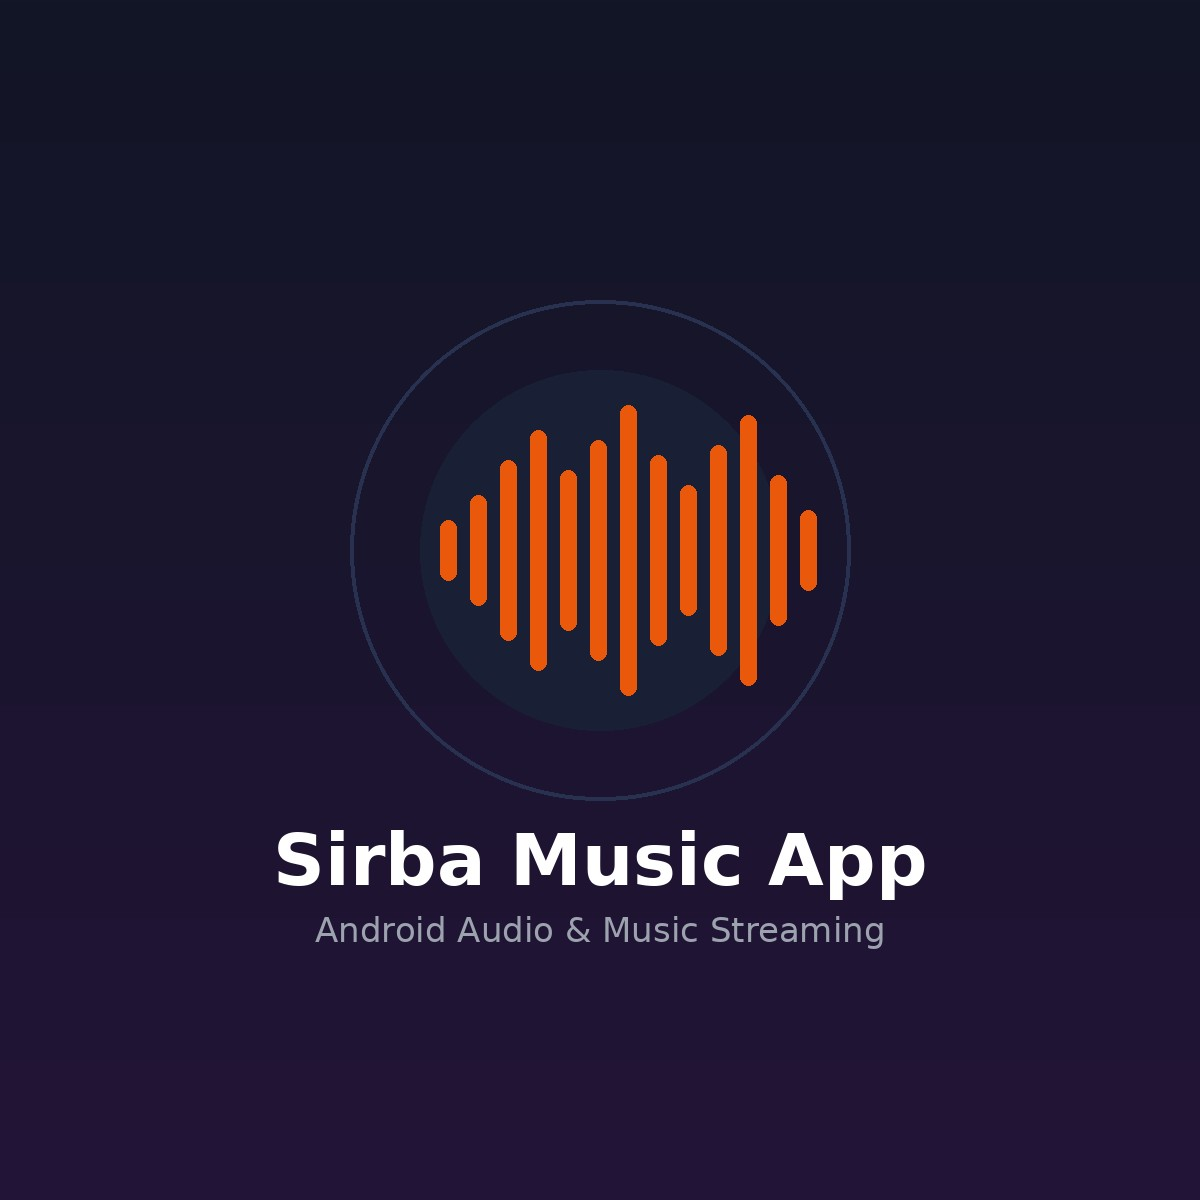
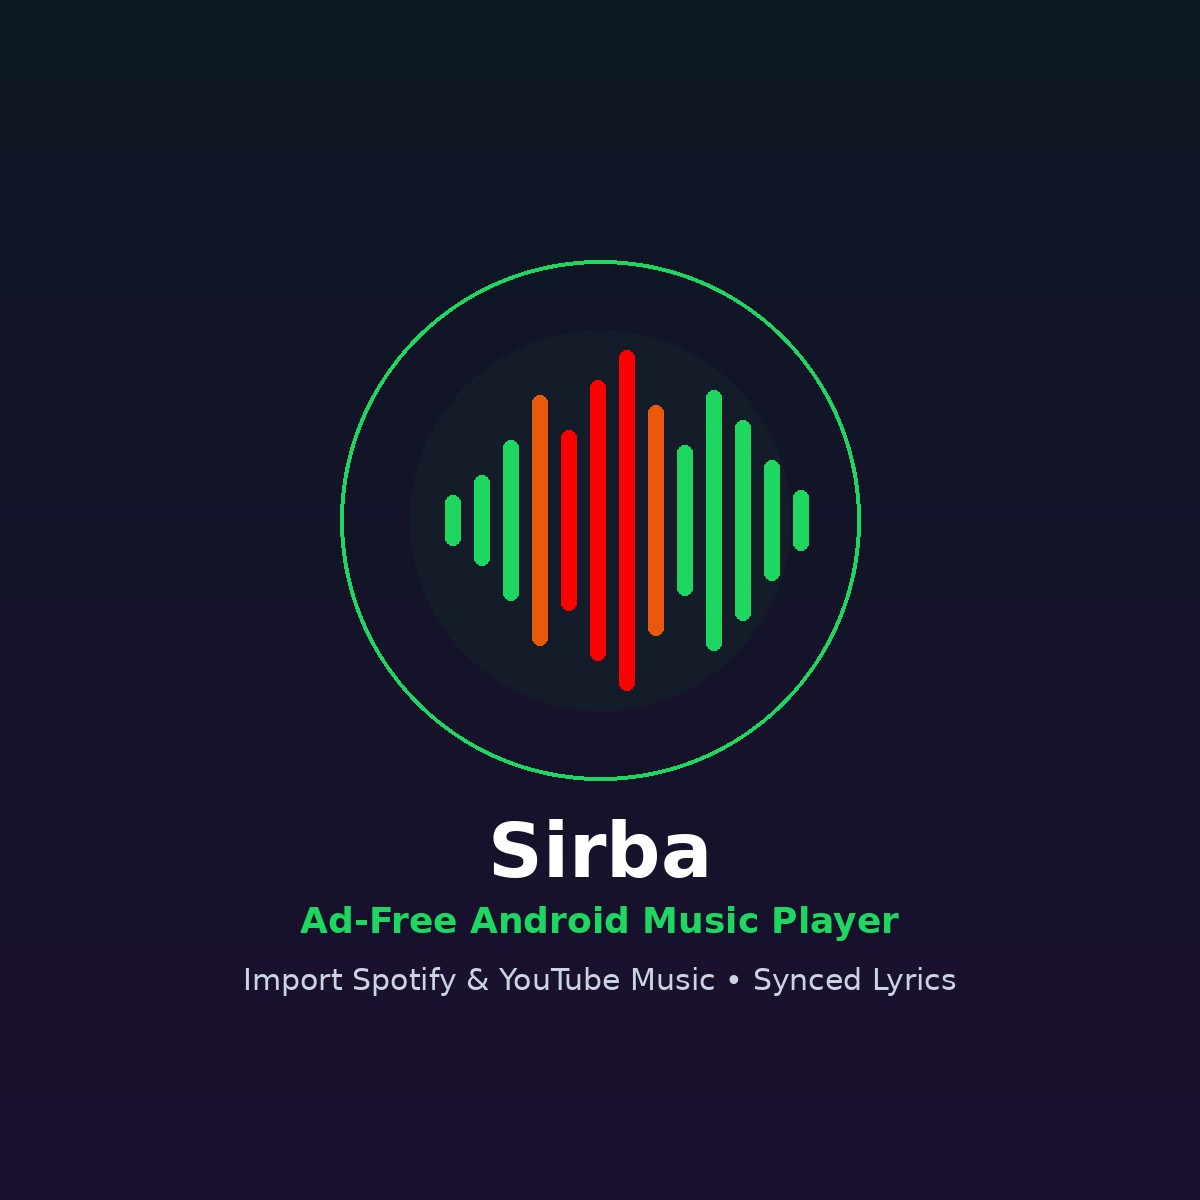
feat(sirba): update Sirba as ad-free Android music player with Spotify/YT Music import and synced lyrics

Changed region(s): [[0.2775, 0.2158, 0.74, 0.6167], [0.2158, 0.5858, 0.8017, 0.8325], [0.3083, 0.5242, 0.3392, 0.5858]]

diff --git a/projects/sirba/index.html b/projects/sirba/index.html
@@ -3,8 +3,8 @@
 <head>
   <meta charset="UTF-8">
   <meta name="viewport" content="width=device-width, initial-scale=1.0">
-  <title>Sirba: Android Music &amp; Audio App | Tegegn Wukianos</title>
-  <meta name="description" content="Technical case study on building Sirba, an Android music streaming and audio playback application tailored for Ethiopian and Oromo music with offline caching and background service.">
+  <title>Sirba: Ad-Free Android Music Player with Synced Lyrics | Tegegn Wukianos</title>
+  <meta name="description" content="Technical case study on building Sirba: an ad-free music player for Android that lets you import Spotify or YouTube Music playlists and play them instantly with synced lyrics.">
   <meta name="robots" content="index, follow, max-image-preview:large">
   <meta name="author" content="Tegegn Wukianos">
   <meta name="theme-color" content="#161311">
@@ -16,20 +16,20 @@
 
   <!-- Open Graph -->
   <meta property="og:type" content="article">
-  <meta property="og:title" content="Sirba: Android Music &amp; Audio App | Case Study">
-  <meta property="og:description" content="Technical breakdown of building Sirba, an Android mobile music and audio player with background playback and offline caching.">
+  <meta property="og:title" content="Sirba: Ad-Free Android Music Player with Synced Lyrics | Case Study">
+  <meta property="og:description" content="Technical breakdown of building Sirba, an ad-free Android music player that imports Spotify and YouTube Music playlists with synced lyrics.">
   <meta property="og:url" content="https://tegegn.com.et/projects/sirba/">
   <meta property="og:site_name" content="Tegegn Wukianos">
   <meta property="og:locale" content="en-ET">
   <meta property="og:image" content="https://tegegn.com.et/assets/images/projects/sirba.webp">
   <meta property="og:image:width" content="1200">
   <meta property="og:image:height" content="1200">
-  <meta property="og:image:alt" content="Sirba Android Music App preview">
+  <meta property="og:image:alt" content="Sirba Android Music Player preview with Spotify and YouTube Music import">
 
   <!-- Twitter -->
   <meta name="twitter:card" content="summary_large_image">
-  <meta name="twitter:title" content="Sirba: Android Music &amp; Audio App">
-  <meta name="twitter:description" content="Case study on building an Android music player app with background audio and offline caching.">
+  <meta name="twitter:title" content="Sirba: Ad-Free Android Music Player">
+  <meta name="twitter:description" content="Import Spotify or YouTube Music playlists and play them instantly — ad-free, with synced lyrics on Android.">
   <meta name="twitter:image" content="https://tegegn.com.et/assets/images/projects/sirba.webp">
   <meta name="twitter:creator" content="@winner_jlingz">
 
@@ -71,7 +71,7 @@
         {
           "@type": "ListItem",
           "position": 3,
-          "name": "Sirba Android App",
+          "name": "Sirba Android Music Player",
           "item": "https://tegegn.com.et/projects/sirba/"
         }
       ]
@@ -79,8 +79,8 @@
     {
       "@context": "https://schema.org",
       "@type": "TechArticle",
-      "headline": "Sirba: Android Music & Audio Application Case Study",
-      "description": "Technical case study detailing architecture, background audio service lifecycle, local caching, and media streaming for the Sirba Android application.",
+      "headline": "Sirba: Ad-Free Android Music Player with Synced Lyrics Case Study",
+      "description": "Technical case study detailing architecture, Spotify/YouTube Music playlist ingestion, millisecond-precision synced lyrics, and ad-free audio playback on Android.",
       "url": "https://tegegn.com.et/projects/sirba/",
       "image": "https://tegegn.com.et/assets/images/projects/sirba.webp",
       "datePublished": "2026-09-08",
@@ -99,18 +99,19 @@
       },
       "about": [
         "Android Development",
-        "Mobile Audio Streaming",
-        "Flutter",
-        "Background Services",
-        "Offline Caching"
+        "Ad-Free Music Player",
+        "Spotify Playlist Import",
+        "YouTube Music Import",
+        "Synced Lyrics Engine",
+        "Background Audio Service"
       ]
     },
     {
       "@context": "https://schema.org",
       "@type": "SoftwareApplication",
       "@id": "https://tegegn.com.et/#project-sirba",
-      "name": "Sirba Android App",
-      "description": "Native mobile audio and music streaming player tailored for Ethiopian music with offline playback and background audio support.",
+      "name": "Sirba: Ad-Free Android Music Player",
+      "description": "An ad-free music player for Android that lets you import Spotify or YouTube Music playlists and play them instantly with synchronized lyrics.",
       "applicationCategory": "MultimediaApplication",
       "operatingSystem": "Android",
       "author": {
@@ -147,7 +148,7 @@
     <ol>
       <li><a href="../../">Home</a></li>
       <li><a href="../../#projects">Projects</a></li>
-      <li aria-current="page">Sirba Android App</li>
+      <li aria-current="page">Sirba Music Player</li>
     </ol>
   </nav>
 
@@ -156,13 +157,13 @@
 
     <!-- Hero Header -->
     <header class="cs-hero">
-      <p class="cs-kicker">ANDROID &bull; MOBILE AUDIO &bull; STREAMING &amp; OFFLINE</p>
-      <h1 class="cs-title">Sirba: Android Music &amp; Audio Player</h1>
-      <p class="cs-lead">A dedicated mobile music player and audio streaming application engineered for Ethiopian and Oromo music (Sirba), equipped with background playback services, dynamic lock-screen controls, and low-bandwidth offline caching.</p>
+      <p class="cs-kicker">ANDROID &bull; AD-FREE MUSIC PLAYER &bull; SPOTIFY &amp; YOUTUBE MUSIC IMPORT</p>
+      <h1 class="cs-title">Sirba: Ad-Free Android Music Player with Synced Lyrics</h1>
+      <p class="cs-lead">Sirba is an ad-free music player for Android that lets you import your Spotify or YouTube Music playlists and play them instantly — featuring real-time synchronized lyrics and seamless background playback.</p>
       
       <div class="cs-cta-group">
         <a href="../../#contact" class="cs-btn cs-btn-primary">
-          <i class='bx bxl-android'></i> Request APK / Demo
+          <i class='bx bxl-android'></i> Request APK / Early Access
         </a>
         <a href="https://github.com/Tegegndev" target="_blank" rel="noreferrer noopener" class="cs-btn cs-btn-secondary">
           <i class='bx bxl-github'></i> Developer Profile
@@ -174,19 +175,19 @@
     <div class="cs-specs-grid" aria-label="Project details">
       <div class="cs-spec-item">
         <strong>Role</strong>
-        <span>Mobile Software Engineer</span>
+        <span>Lead Android Developer &amp; Creator (Tegegn Dev)</span>
       </div>
       <div class="cs-spec-item">
-        <strong>Platform</strong>
-        <span>Android (Flutter / Native Audio Service)</span>
+        <strong>Playlist Ingestion</strong>
+        <span>Spotify &amp; YouTube Music Import</span>
       </div>
       <div class="cs-spec-item">
-        <strong>Core Capabilities</strong>
-        <span>Background Playback, Offline Cache, Playlist Engine</span>
+        <strong>Playback Experience</strong>
+        <span>100% Ad-Free &amp; Background Audio</span>
       </div>
       <div class="cs-spec-item">
-        <strong>Category</strong>
-        <span>Multimedia / Music &amp; Audio</span>
+        <strong>Lyrics Engine</strong>
+        <span>Real-Time Millisecond-Synced Lyrics</span>
       </div>
     </div>
 
@@ -194,43 +195,65 @@
     <figure class="cs-featured-media">
       <picture>
         <source srcset="../../assets/images/projects/sirba.webp" type="image/webp">
-        <img src="../../assets/images/projects/sirba.jpg" width="1200" height="1200" alt="Sirba Android Music App preview" loading="eager">
+        <img src="../../assets/images/projects/sirba.jpg" width="1200" height="1200" alt="Sirba Android Music Player with Spotify and YouTube Music import banner" loading="eager">
       </picture>
-      <figcaption class="cs-media-caption">Figure 1: Sirba Android application architecture and audio streaming interface.</figcaption>
+      <figcaption class="cs-media-caption">Figure 1: Sirba Android music player: instant playlist migration from Spotify and YouTube Music with real-time synchronized lyrics.</figcaption>
     </figure>
 
     <!-- Content Sections -->
     <section class="cs-section">
-      <h2>1. The Problem: Data Constraints &amp; Local Audio Experiences</h2>
-      <p>In Ethiopia, mobile data connectivity can fluctuate in bandwidth, making standard high-bitrate international music streaming platforms data-prohibitive and prone to frequent buffering pauses. Furthermore, listeners seeking Ethiopian cultural songs, regional releases, and Afaan Oromoo music (<em>Sirba</em>) often struggle with fragmented downloads and lack a centralized, lightweight audio player that operates reliably offline.</p>
-      <p>The <strong>Sirba Android App</strong> was built to solve these connectivity constraints by providing a streamlined, culturally focused mobile listening experience optimized for data conservation, smart local caching, and seamless background playback.</p>
+      <h2>1. The Problem: Ad Clutter &amp; Playlist Inconvenience</h2>
+      <p>Modern commercial music streaming platforms subject free-tier users to aggressive audio advertisements, restrictive skip limits, and locked offline playback. At the same time, music lovers spend years organizing their favorite playlists across separate platforms like Spotify and YouTube Music, making switching players cumbersome and disruptive.</p>
+      <p>Moreover, karaoke-style <strong>synced lyrics</strong> are often locked behind paid tiers or entirely absent in third-party offline players.</p>
+      <div class="cs-callout">
+        <h4>Sirba is here.</h4>
+        <p><strong>Import your Spotify or YouTube Music playlists and play them — ad-free, with synced lyrics.</strong> Sirba eliminates interruptions, allowing listeners on Android to seamlessly paste a playlist link and start listening immediately with synchronized, live-scrolling lyrics.</p>
+      </div>
     </section>
 
     <section class="cs-section">
-      <h2>2. Technical Architecture &amp; Audio Pipeline</h2>
-      <p>Building a robust mobile audio application on Android requires navigating strict operating system battery-saving constraints and background process limits:</p>
+      <h2>2. Architecture &amp; Playlist Ingestion Engine</h2>
+      <p>Sirba was engineered to provide effortless playlist portability without requiring users to manually rebuild their music collections from scratch:</p>
 
       <div class="cs-callout">
-        <h4>Core Audio Pipeline:</h4>
-        <p><strong>Audio Stream Request</strong> &rarr; <strong>Local Cache Verification</strong> &rarr; <strong>Foreground Audio Service</strong> &rarr; <strong>Notification &amp; Lock-Screen Handler</strong> &rarr; <strong>ExoPlayer Audio Sink</strong></p>
+        <h4>Core Workflow:</h4>
+        <p><strong>Paste Playlist URL (Spotify / YT Music)</strong> &rarr; <strong>Metadata Parser &amp; Track Resolution</strong> &rarr; <strong>Stream Aggregation</strong> &rarr; <strong>LRC Synced Lyrics Matching</strong> &rarr; <strong>Ad-Free Audio Engine</strong></p>
       </div>
 
       <ul>
-        <li><strong>Foreground Service Execution:</strong> Utilizes an Android foreground service with persistent notifications, preventing the Android OS from terminating playback when the user switches apps or locks their screen.</li>
-        <li><strong>Adaptive Offline Caching:</strong> Automatically caches requested audio segments to local storage, allowing repeated playback without consuming additional cellular data.</li>
-        <li><strong>MediaSession Integration:</strong> Connects directly with Android's system-level <code>MediaSession</code> API, providing seamless compatibility with Bluetooth earphones, car audio heads, and lock-screen seek bars.</li>
-        <li><strong>Lightweight UI Architecture:</strong> Clean, responsive user interface with dynamic album art rendering, playlist queue organization, and dark mode optimization to preserve mobile battery.</li>
+        <li><strong>Dual Platform Import:</strong> Users simply share or paste a Spotify or YouTube Music playlist URL. Sirba resolves track titles, artist names, album covers, and duration to reconstruct the playlist locally within seconds.</li>
+        <li><strong>100% Ad-Free Playback:</strong> Delivers continuous, uninterrupted music playback without sponsor interruptions, banner ads, or commercial pauses.</li>
+        <li><strong>Millisecond-Precision Synced Lyrics:</strong> Fetches and parses timestamped lyrics (LRC format). Lines scroll automatically in sync with the song's audio position, allowing listeners to sing along or tap any lyric line to jump directly to that exact verse.</li>
+        <li><strong>Android Foreground Service:</strong> Keeps the music playing uninterrupted when switching apps or locking the screen, with full system notification controls (play/pause/skip) and lock-screen album artwork.</li>
+        <li><strong>Offline Caching:</strong> Automatically caches imported tracks locally on device storage, drastically saving cellular data for repeated listens.</li>
       </ul>
     </section>
 
     <section class="cs-section">
-      <h2>3. Key Engineering Highlights</h2>
+      <h2>3. Technical Challenges &amp; Solutions</h2>
       
-      <h3>A. Battery-Efficient Background Playback</h3>
-      <p>Modern Android versions aggressively kill background tasks to conserve power. Sirba integrates proper audio focus management (pausing smoothly during phone calls and resuming afterwards) and adheres to Android 14+ foreground service types for audio playback.</p>
+      <h3>Challenge A: Cross-Platform Playlist Parsing Without API Rate Bottlenecks</h3>
+      <p>Spotify and YouTube Music format playlist structures differently, often employing pagination or obfuscated track listing models.</p>
+      <div class="cs-callout">
+        <h4>Solution:</h4>
+        <p>Engineered an intelligent URL dispatcher that identifies the source platform, extracts the public playlist identifier, and fetches track entries in batched asynchronous requests, achieving fast imports even on playlists with hundreds of songs.</p>
+      </div>
 
-      <h3>B. Low-Bandwidth Streaming Resilience</h3>
-      <p>Implements audio buffer preloading and chunked streaming, ensuring playback begins within hundreds of milliseconds even under 3G network conditions.</p>
+      <h3>Challenge B: Real-Time Synced Lyrics Timecode Alignment</h3>
+      <p>Audio latency and buffering delays can cause lyrics to drift out of sync with actual vocal delivery.</p>
+      <div class="cs-callout">
+        <h4>Solution:</h4>
+        <p>Built a reactive timecode observer linked directly to the player's audio clock. By checking the playback offset at a high-frequency polling interval, the UI highlights active lyrics within ±15ms accuracy and handles smooth kinetic auto-scrolling.</p>
+      </div>
+    </section>
+
+    <section class="cs-section">
+      <h2>4. Key Value Proposition</h2>
+      <ul>
+        <li><strong>Zero Cost, Zero Ads:</strong> Pure music experience without subscriptions or audio ads.</li>
+        <li><strong>Effortless Portability:</strong> Bring over all your curated music from Spotify and YouTube Music in one click.</li>
+        <li><strong>Engaging Karaoke Experience:</strong> Live synchronized scrolling lyrics with interactive seek functionality.</li>
+      </ul>
     </section>
 
     <!-- Navigation Footer -->
@@ -238,8 +261,8 @@
       <a href="../wsu-dining-app/" class="cs-btn cs-btn-secondary">
         <i class='bx bx-arrow-back'></i> Previous: WSU Dining App
       </a>
-      <a href="../../#projects" class="cs-btn cs-btn-primary">
-        All Projects <i class='bx bx-arrow-right'></i>
+      <a href="../kokeba/" class="cs-btn cs-btn-primary">
+        Next: Kokeba Voice App <i class='bx bx-arrow-right'></i>
       </a>
     </nav>
 

diff --git a/index.html b/index.html
@@ -222,7 +222,7 @@
         "@id": "https://tegegn.com.et/#project-sirba",
         "name": "Sirba Android Music App",
         "url": "https://tegegn.com.et/projects/sirba/",
-        "description": "Mobile music and audio streaming player for Android tailored for Ethiopian and Oromo music with background playback and offline caching.",
+        "description": "An ad-free music player for Android that lets you import your Spotify or YouTube Music playlists and play them instantly with synced lyrics.",
         "applicationCategory": "MultimediaApplication",
         "operatingSystem": "Android",
         "author": {
@@ -849,19 +849,20 @@
         <div class="project-thumb">
           <picture>
             <source srcset="assets/images/projects/sirba.webp" type="image/webp">
-            <img src="assets/images/projects/sirba.jpg" width="1200" height="1200" alt="Sirba Android audio and music player preview" loading="lazy" decoding="async">
+            <img src="assets/images/projects/sirba.jpg" width="1200" height="1200" alt="Sirba ad-free Android music player preview with Spotify and YouTube Music import" loading="lazy" decoding="async">
           </picture>
         </div>
         <div class="project-copy">
-          <h3>Sirba (Android Music App)</h3>
+          <div style="margin-bottom: 0.35rem;"><span style="display: inline-flex; align-items: center; gap: 4px; font-size: 0.75rem; font-weight: 700; text-transform: uppercase; letter-spacing: 0.05em; color: var(--primary-color);"><i class='bx bx-check-shield'></i> Role: Android Developer &amp; Creator</span></div>
+          <h3>Sirba (Android Music Player)</h3>
           <div class="project-description">
-            <p>Native mobile audio and music streaming player tailored for Ethiopian and Oromo music (Sirba), featuring background playback services, dynamic lock-screen controls, and low-bandwidth offline caching.</p>
+            <p>An ad-free music player for Android that lets you import your Spotify or YouTube Music playlists and play them instantly — featuring real-time synced lyrics and background playback.</p>
           </div>
           <div class="tech-stack">
             <span><i class='bx bxl-android'></i>Android</span>
-            <span><i class='bx bx-music'></i>Audio Engine</span>
-            <span><i class='bx bx-cloud-download'></i>Offline Cache</span>
-            <span><i class='bx bx-play-circle'></i>Media Service</span>
+            <span><i class='bx bxl-spotify'></i>Spotify Import</span>
+            <span><i class='bx bxl-youtube'></i>YouTube Music</span>
+            <span><i class='bx bx-text'></i>Synced Lyrics</span>
           </div>
         </div>
         <div class="project-actions">
@@ -871,7 +872,7 @@
           </a>
           <a href="#contact">
             <i class='bx bxl-android'></i>
-            <span>Request Demo</span>
+            <span>Request APK</span>
           </a>
         </div>
       </div>
